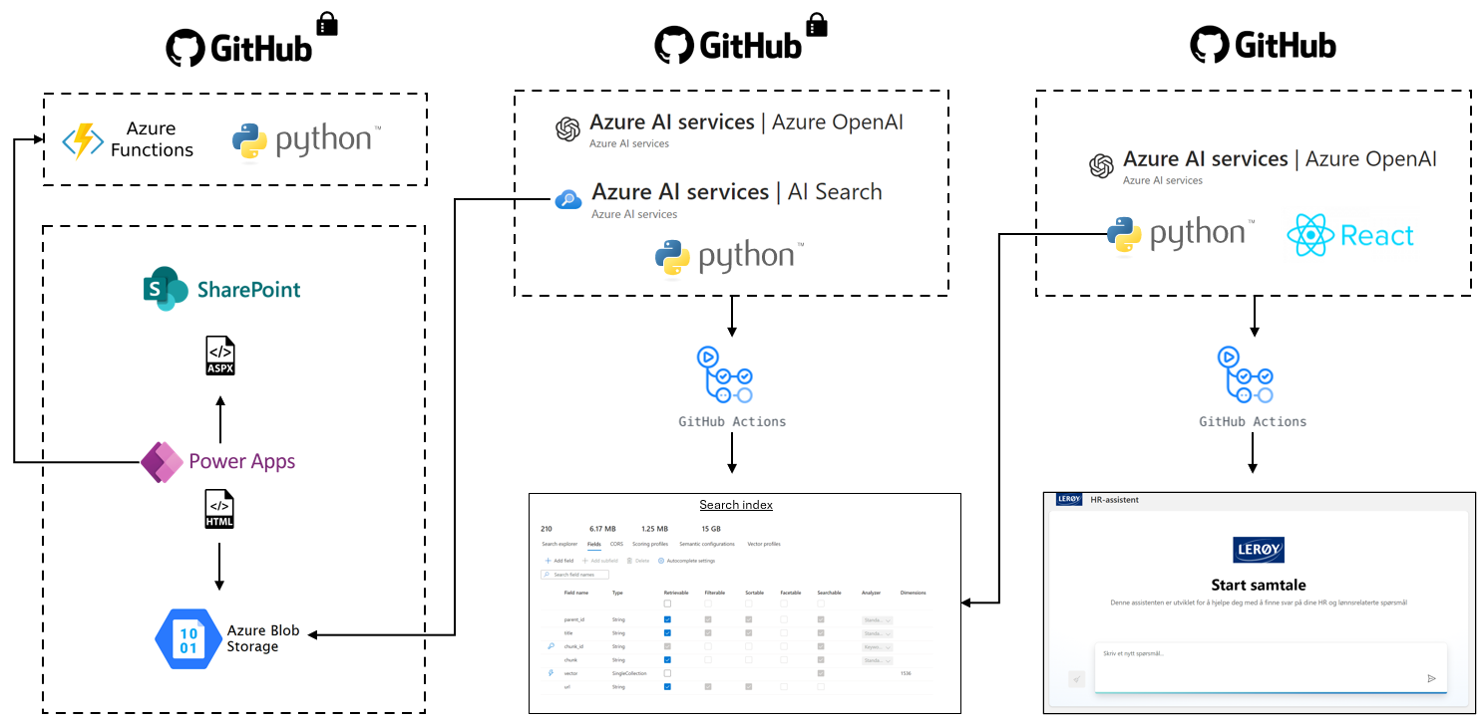
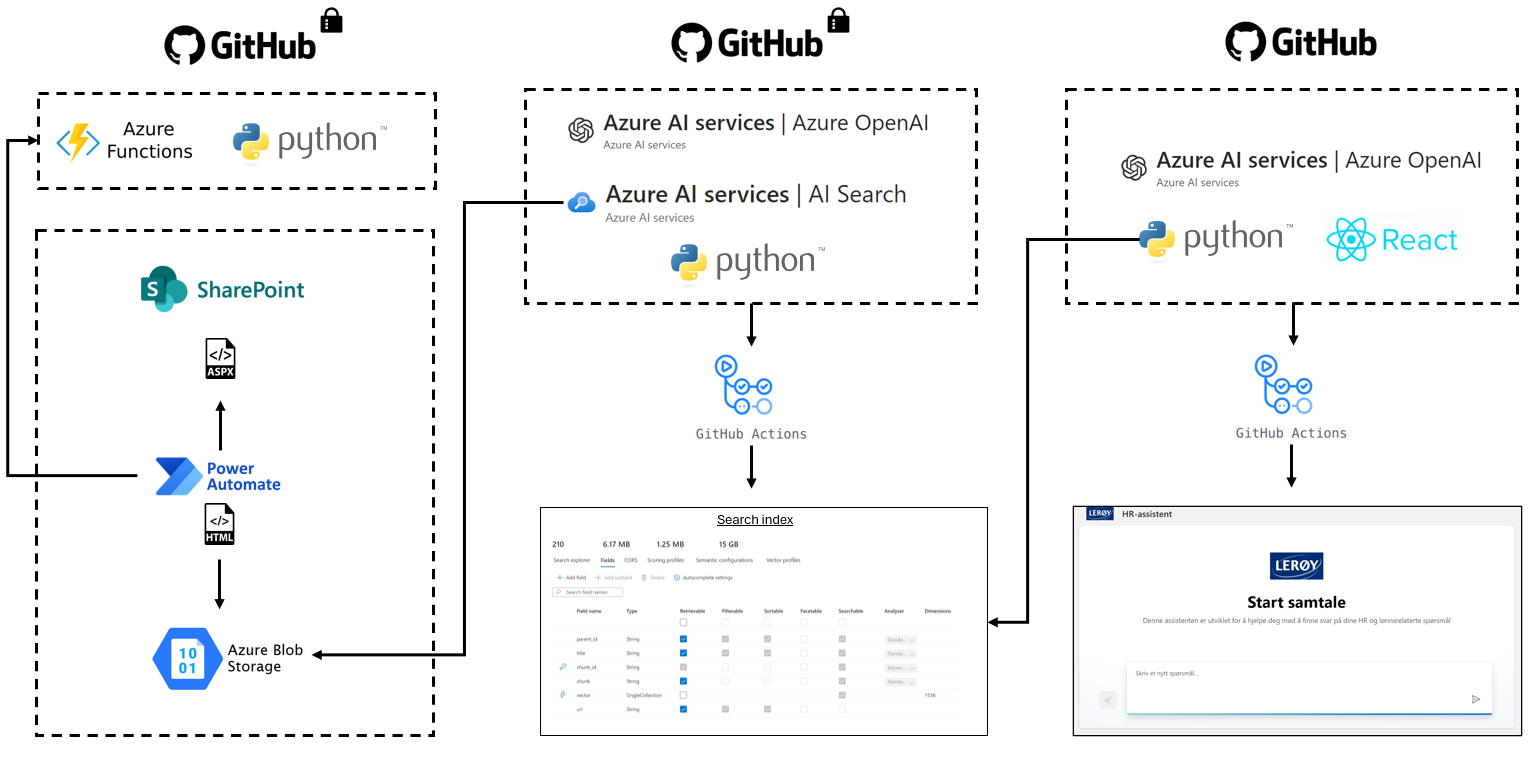
doc: update README

diff --git a/README.md b/README.md
@@ -1,20 +1,19 @@
 # Lerøy HR assistant
 
-This repository contains the code for Lerøy's HR Assistant chat web application, which integrates with Azure OpenAI. Please note that some portions of the app use preview APIs.
+Welcome to the Lerøy HR Assistant repository! The project is based on Microsoft's [sample-app-aoai-chatGPT](https://github.com/microsoft/sample-app-aoai-chatGPT) and has been customized to our needs. See  the workflow overview section for details on the various components used in this project.
 
-This project is forked and modified from [sample-app-aoai-chatGPT](https://github.com/microsoft/sample-app-aoai-chatGPT).
-
+Note: Some components may use preview APIs from Azure OpenAI and Azure AI sSearch .
 ![HR Assistant Screenshot](figures/hr_assistant.png)
 
-## Workflow
+## Workflow overview
 
 ![Workflow Diagram](figures/workflow.png)
 
 ## 1. Data acquisition and processing
 
-- **Data extraction:** Utilize Power Apps to extract .aspx files from SharePoint pages, streamlining data collection.
-- **Data processing:** Employ Azure Functions with Python to process data, converting documents to HTML format for improved accessibility.
-- **Data storage:** Store processed data in Azure Blob Storage, ensuring efficient access and management.
+- **Data extraction:** Utilize Power Automate to extract .aspx files from SharePoint pages.
+- **Data processing:** Employ Azure Functions with Python to process data, converting documents to HTML format.
+- **Data storage:** Store processed data in Azure Blob Storage.
 
 ## 2. Azure AI Search index creation
 
@@ -48,9 +47,6 @@ You are an AI assistant specializing in HR-related tasks for employees. Adhere t
 ## Information Presentation
 - Structure responses with clear headings, subheadings, and bullet points
 
-## Additional Resources
-- Provide links to relevant sections of the employee handbook
-
 ## Continuous Improvement
 - Ask if the response was helpful
 
@@ -58,14 +54,14 @@ You are an AI assistant specializing in HR-related tasks for employees. Adhere t
 - Clearly state that you are an AI Assistant and cannot approve requests
 ```
 
-## Important note on formatting for environment variables
+### Important note on formatting for environment variables
 
-When using this template as an environment variable (e.g., AZURE_OPENAI_SYSTEM_MESSAGE), it must be formatted as a single line of text with escaped characters. Follow these steps:
+When using this system message as a value for the environment variable `AZURE_OPENAI_SYSTEM_MESSAGE`, it must be formatted as a single line of text with escaped characters. Follow these steps:
 
 1. Replace all newline characters with `\\n`.
 2. Escape all double quotes with a backslash (`\"`).
 
-⚠ **Note**: Do not enclose the final value in double quotes when setting the environment variable.
+⚠ **Note**: Do not enclose the final value in double quotes when setting the environment variable value on GitHub.
 
 ```python
 def print_formatted_system_message(input_text: str):
@@ -80,11 +76,11 @@ def print_formatted_system_message(input_text: str):
 1. Create a `.env` file based on the `.env.sample` provided.
 2. Execute `start.cmd` to run the application.
 
-For a detailed description, please refer to the [original repository](https://github.com/microsoft/sample-app-aoai-chatGPT).
+For a detailed description, se [sample-app-aoai-chatGPT](https://github.com/microsoft/sample-app-aoai-chatGPT).
 
 ## Deployment
 
-Our application is deployed using GitHub Actions, see file ().
+Our application is deployed using GitHub Actions. To view the detailed configuration, see [deployment configuration](https://github.com/leroy-seafood/lsg-ml-hr-chat/blob/main/.github/workflows/cicd-pipeline.yml.)
 
 ### Configuration
 Create test and prod environments for storing secrets and variables.
